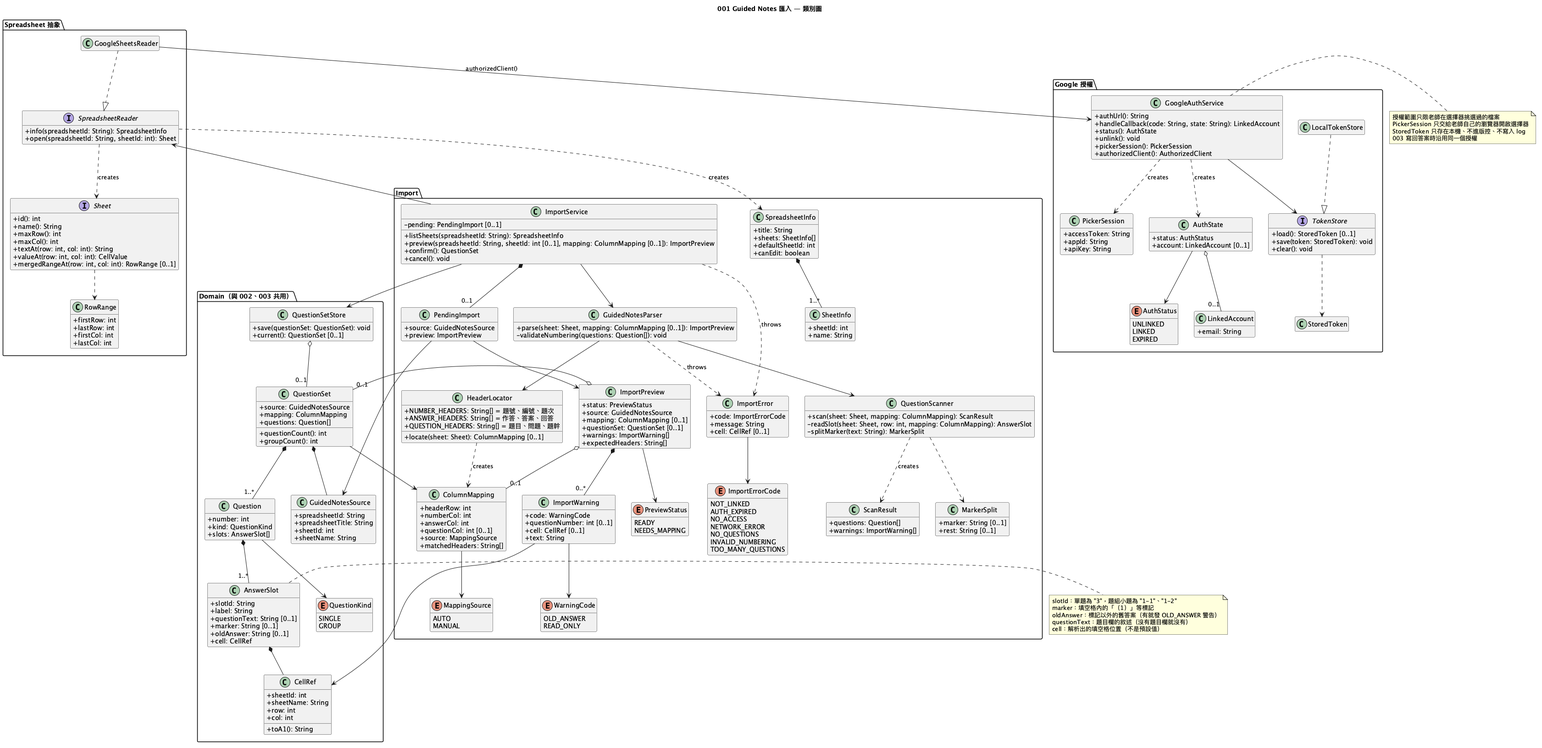
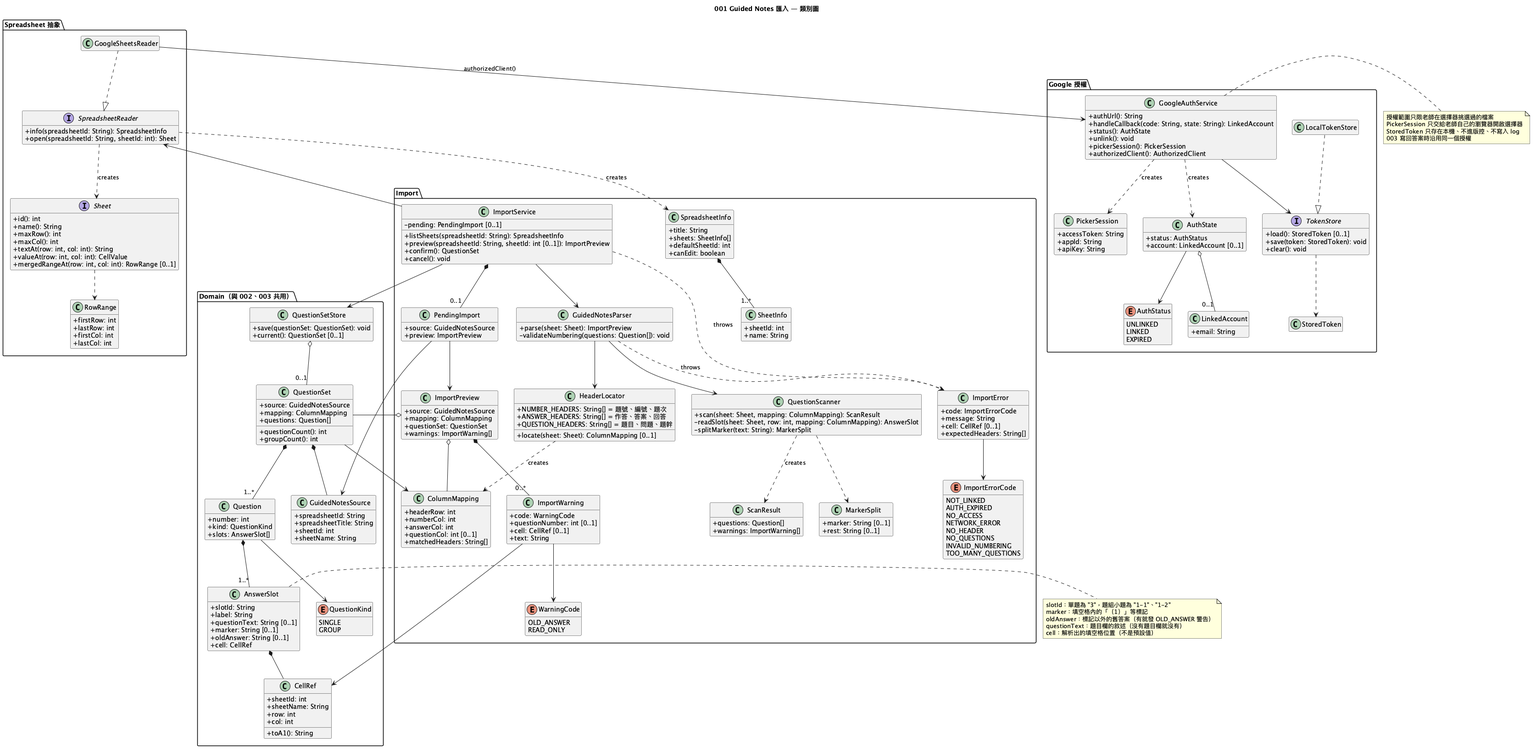
spec(001): 依 spec 修改同步 plan、圖表與 tasks
spec 拿掉手動指定欄位、並寫清楚只有老師身分能匯入之後，設計與任務也要跟著改，否則實作會照舊的流程做。移除 NEEDS_MAPPING、MappingSource、手動指定的畫面與任務，改為 NO_HEADER 附可用的表頭寫法；首頁與匯入 API 補上老師身分檢查；老師憑證配合 002 改存在分頁。重跑 analyze 沒有 CRITICAL、HIGH 或 MEDIUM。

Refs: REQ-IMP-05, REQ-IMP-15, AC-05, AC-15

diff --git a/specs/001-guided-notes-import/tasks.md b/specs/001-guided-notes-import/tasks.md
@@ -42,16 +42,16 @@ description: "Task list for 001 Guided Notes 匯入"
 
 **⚠ CRITICAL**: 這個 Phase 完成並合併前，不開始任何 User Story
 
-- [ ] T008 依 `contracts/question-set.md` 建立 `shared/src/guided-notes.ts`（`GuidedNotesSource`、`CellRef`、`ColumnMapping`、`AnswerSlot`、`Question`、`QuestionSet`、`QuestionKind`、`MappingSource`）
+- [ ] T008 依 `contracts/question-set.md` 建立 `shared/src/guided-notes.ts`（`GuidedNotesSource`、`CellRef`、`ColumnMapping`、`AnswerSlot`、`Question`、`QuestionSet`、`QuestionKind`）
 - [ ] T009 [P] 依 002 `data-model.md` 與 `contracts/socket-events.md` 建立 `shared/src/activity.ts`、`shared/src/socket-events.ts`；依 003 `data-model.md` 建立 `shared/src/results.ts`
 - [ ] T010 [P] 建立 `shared/fixtures/question-set-single.json`（單題範本 6 題）、`question-set-group.json`（題組範本 4 題、2 個題組）、`ended-activity-results.json`（一場已結束活動的 `QuestionResult[]`）；內容依 `docs/templates/` 兩份範本
 - [ ] T011 建立 `server/src/index.ts`：建立 Express 與 Socket.IO，掛上 `http/importRoutes.ts`、`http/googleRoutes.ts`、`http/sessionRoutes.ts`、`http/resultsRoutes.ts` 與 `session/SessionGateway.ts` 的空殼；正式環境提供 `web` 的建置檔
 - [ ] T012 [P] 建立 `server/src/http/errors.ts`：統一錯誤格式 `{ error: { code, message, cell?, questionNumber? } }` 與對應 HTTP 狀態碼
 - [ ] T013 [P] 建立交界的空實作：`server/src/store/QuestionSetStore.ts` 的 `current()` 先回傳 `shared/fixtures` 的範例；`server/src/results/ResultsService.ts` 的 `onActivityCreated`／`onQuestionClosed`／`onActivityEnded` 先不做事；`server/src/google/GoogleAuthService.ts` 先回傳 `UNAVAILABLE`
 - [ ] T014 [P] 建立 `server/src/http/requireTeacher.ts`：驗證 `Authorization: Bearer` 老師憑證的 middleware（憑證的發行由 002 tasks 的 T010 完成；骨架先接受測試用憑證）
-- [ ] T015 [P] 建立 `web/src/App.tsx` 路由，列出所有頁面的空元件：`pages/HomePage.tsx`、`pages/teacher/{ImportPage,SetupPage,LobbyPage,ConsolePage,ResultsPage}.tsx`、`pages/student/{JoinPage,AnswerPage,ResultsPage}.tsx`
-- [ ] T016 [P] 建立 `web/src/lib/api.ts`：`fetch` 包裝，自動帶 `localStorage` 中的老師憑證，把錯誤格式轉成可顯示的訊息
-- [ ] T017 [P] 依 `docs/design/` 的 `Main` 實作 `web/src/pages/HomePage.tsx`（選擇老師或學生）
+- [ ] T015 [P] 建立 `web/src/App.tsx` 路由，列出所有頁面的空元件：`pages/HomePage.tsx`、`pages/teacher/{ImportPage,SetupPage,LobbyPage,ConsolePage,ResultsPage,RecoverPage}.tsx`、`pages/student/{JoinPage,AnswerPage,ResultsPage}.tsx`
+- [ ] T016 [P] 建立 `web/src/lib/api.ts`：`fetch` 包裝，自動帶該分頁 `sessionStorage` 中的老師憑證（002 research R6），把錯誤格式轉成可顯示的訊息
+- [ ] T017 [P] 依 `docs/design/` 的 `Main` 實作 `web/src/pages/HomePage.tsx`（選擇老師或學生）：選老師時呼叫 002 的 `POST /api/teacher/session`，把老師憑證存在該分頁的 `sessionStorage`；已有老師時顯示 002 回傳的 `TEACHER_ACTIVE` 說明，只能以學生加入（002 AC-34）
 
 **Checkpoint**: 骨架合併後，A 與 B 依 `docs/work-split.md` 的檔案歸屬分頭開發
 
@@ -72,21 +72,21 @@ description: "Task list for 001 Guided Notes 匯入"
 - [ ] T022 [P] [US1] 建立 `server/tests/fixtures/sheets/single.json`、`group.json`（依 Sheets API v4 `spreadsheets.get` 回應格式，內容依兩份範本）與 3 份變形：`variant-shifted.json`（表頭在第 7 列、題號在 D 欄、作答在 I 欄）、`variant-gaps.json`（題與題之間空兩列、表頭上方多一段說明文字）、`variant-synonyms.json`（表頭為「編號／題幹／答案」、題目欄在作答欄右邊）（SC-002），並寫 `server/tests/unit/spreadsheet/GoogleSheet.test.ts`：`merges` 的 GridRange（0 起算、結尾不含）轉成 1 起算的 `RowRange`；`valueAt` 回傳 `effectiveValue` 的數字
 - [ ] T023 [P] [US1] `server/tests/unit/google/GoogleAuthService.test.ts`（負責：B）：`state` 一次性、10 分鐘過期、錯誤的 `state` 不保存任何東西（AC-06）；同意後存檔且檔案權限為 0600；`unlink()` 先撤銷再刪檔；`status()` 依情況回 `UNLINKED`／`LINKED`／`EXPIRED`；整個流程的 log 不含 token（SC-006）
 - [ ] T024 [P] [US1] `server/tests/integration/googleRoutes.test.ts`（負責：B）：缺少任一 Google 環境變數時 `/status` 回 `UNAVAILABLE`、`/picker-session` 回 `503 GOOGLE_UNAVAILABLE`；`/callback` 同意時 302 到 `/teacher/import?google=linked`，拒絕時到 `?google=denied`；沒有老師憑證回 401
-- [ ] T025 [P] [US1] `server/tests/integration/importRoutes.test.ts`：以假的 `SpreadsheetReader` 測 `/sheets`、`/preview`、`/confirm`、`/cancel`、`/current` 的成功流程；沒有老師憑證回 401；活動 phase 不是 `WAITING` 時一律 `409 IMPORT_LOCKED`（REQ-IMP-15）；多個工作表時 `defaultSheetId` 為第一個找得到表頭的工作表（AC-07）
-- [ ] T026 [P] [US1] `web/src/pages/teacher/ImportPage.test.tsx`：未連結時顯示「連結 Google 帳號」（AC-05）；`?google=denied` 時顯示尚未授權（AC-06）；已連結時顯示帳號 email 與「解除連結」
+- [ ] T025 [P] [US1] `server/tests/integration/importRoutes.test.ts`：以假的 `SpreadsheetReader` 測 `/sheets`、`/preview`、`/confirm`、`/cancel`、`/current` 的成功流程；沒有老師憑證或使用學生的身分回 401（REQ-IMP-15）；確認後 `/current` 回傳題目清單與來源（AC-02）；活動 phase 不是 `WAITING` 時一律 `409 IMPORT_LOCKED`（REQ-IMP-15）；多個工作表時 `defaultSheetId` 為第一個找得到表頭的工作表（AC-07）
+- [ ] T026 [P] [US1] `web/src/pages/teacher/ImportPage.test.tsx`：沒有老師身分的分頁進入匯入頁時導回首頁（REQ-IMP-15）；有老師身分但未連結 Google 時顯示「連結 Google 帳號」（AC-05）；`?google=denied` 時顯示尚未授權（AC-06）；已連結時顯示帳號 email 與「解除連結」
 
 ### Implementation for User Story 1
 
 - [ ] T027 [P] [US1] 建立 `server/src/spreadsheet/types.ts`：`SpreadsheetReader`（`info(spreadsheetId)`、`open(spreadsheetId, sheetId)`）、`Sheet`（`id`、`name`、`maxRow`、`maxCol`、`textAt`、`valueAt`、`mergedRangeAt`）、`RowRange`、`SpreadsheetInfo`（`title`、`sheets`、`defaultSheetId`、`canEdit`）、`SheetInfo`
-- [ ] T028 [P] [US1] 建立 `server/src/import/types.ts`：`ImportPreview`（`status: PreviewStatus`、`source`、`mapping`、`questionSet`、`warnings`、`expectedHeaders`）、`PendingImport`、`ImportWarning`（`code: 'OLD_ANSWER' | 'READ_ONLY'`）、`ImportError` 與 `ImportErrorCode`（`NOT_LINKED`、`AUTH_EXPIRED`、`NO_ACCESS`、`NETWORK_ERROR`、`NO_QUESTIONS`、`INVALID_NUMBERING`、`TOO_MANY_QUESTIONS`）
+- [ ] T028 [P] [US1] 建立 `server/src/import/types.ts`：`ImportPreview`（`source`、`mapping`、`questionSet`、`warnings`）、`PendingImport`、`ImportWarning`（`code: 'OLD_ANSWER' | 'READ_ONLY'`）、`ImportError`（`code`、`message`、`cell`、`expectedHeaders`）與 `ImportErrorCode`（`NOT_LINKED`、`AUTH_EXPIRED`、`NO_ACCESS`、`NETWORK_ERROR`、`NO_HEADER`、`NO_QUESTIONS`、`INVALID_NUMBERING`、`TOO_MANY_QUESTIONS`）
 - [ ] T029 [P] [US1] 實作 `server/src/import/HeaderLocator.ts`（research R5）
 - [ ] T030 [US1] 實作 `server/src/import/QuestionScanner.ts` 的單題路徑：逐列讀題號、作答欄、題目欄（research R6、R7），依 T027
-- [ ] T031 [US1] 實作 `server/src/import/GuidedNotesParser.ts`：`parse(sheet, mapping?)` 回傳 `ImportPreview`；`validateNumbering` 檢查不重複、由上到下嚴格遞增、可跳號、1–200 題（REQ-IMP-06），依 T029、T030
+- [ ] T031 [US1] 實作 `server/src/import/GuidedNotesParser.ts`：`parse(sheet)` 回傳 `ImportPreview`，找不到表頭時丟出 `NO_HEADER`；`validateNumbering` 檢查不重複、由上到下嚴格遞增、可跳號、1–200 題（REQ-IMP-06），依 T029、T030
 - [ ] T032 [US1] 實作 `server/src/spreadsheet/GoogleSheetsReader.ts`：`info` 用 `spreadsheets.get`（`fields=properties.title,sheets.properties(sheetId,title)`）與 Drive `files.get`（`capabilities/canEdit`）；`open` 用 `includeGridData` 並轉成 `GoogleSheet`；每次請求逾時 15 秒；錯誤對應 401→`AUTH_EXPIRED`、403／404→`NO_ACCESS`、逾時→`NETWORK_ERROR`（research R4）
 - [ ] T033 [P] [US1] 實作 `server/src/google/TokenStore.ts`（負責：B）：`TokenStore` 介面與 `LocalTokenStore`（`credentials/google-token.json`，權限 0600，`clear()` 刪檔）
 - [ ] T034 [US1] 實作 `server/src/google/GoogleAuthService.ts`（負責：B）：`OAuth2Client`，範圍只有 `drive.file` 與 `openid email`，`access_type=offline`、`prompt=consent`；`authUrl`、`handleCallback`（驗證一次性 `state`）、`status`、`unlink`（撤銷後刪檔）、`pickerSession`（`accessToken`、`appId`、`apiKey`）、`authorizedClient`（refresh 失敗時狀態變為 `EXPIRED`）；任何 token 不寫入 log（research R2、R3），依 T033
 - [ ] T035 [US1] 實作 `server/src/http/googleRoutes.ts`（負責：B）：`GET /status`、`POST /connect`、`GET /callback`、`POST /unlink`、`GET /picker-session`，依 `contracts/google-auth-http.md`，依 T034
-- [ ] T036 [US1] 實作 `server/src/import/ImportService.ts`：`listSheets(spreadsheetId)`、`preview(spreadsheetId, sheetId?, mapping?)`、`confirm()`、`cancel()`；同一時間最多一份 `PendingImport`；`confirm` 寫入 `QuestionSetStore`，依 T031、T032
+- [ ] T036 [US1] 實作 `server/src/import/ImportService.ts`：`listSheets(spreadsheetId)`、`preview(spreadsheetId, sheetId?)`、`confirm()`、`cancel()`；同一時間最多一份 `PendingImport`；`confirm` 寫入 `QuestionSetStore`，依 T031、T032
 - [ ] T037 [US1] 把 `server/src/store/QuestionSetStore.ts` 從範例資料換成真正的 `save(questionSet)`／`current()`（唯讀）
 - [ ] T038 [US1] 實作 `server/src/http/importRoutes.ts`：`POST /sheets`、`POST /preview`、`POST /confirm`、`POST /cancel`、`GET /current`，依 `contracts/import-http.md`，套用 `requireTeacher` 與 `IMPORT_LOCKED` 檢查，依 T036
 - [ ] T039 [P] [US1] 實作 `web/src/lib/googlePicker.ts`（負責：B）：載入 `https://apis.google.com/js/api.js`，以 `PickerBuilder` 開啟選擇器（`ViewId.SPREADSHEETS`、`setOAuthToken`、`setDeveloperKey`、`setAppId`），回傳 `spreadsheetId` 或 `cancel`
@@ -120,7 +120,7 @@ description: "Task list for 001 Guided Notes 匯入"
 
 ## Phase 5: User Story 3 - 連線、權限或格式有問題時清楚處理 (Priority: P2)
 
-**Goal**: 每一種失敗都有原因與修正方式；找不到表頭時手動指定欄位；失敗不影響既有題目清單
+**Goal**: 每一種失敗都有原因與修正方式；找不到表頭時拒絕匯入並列出可用的表頭寫法；失敗不影響既有題目清單
 
 **Independent Test**: 依 quickstart 情境 7–14，各種錯誤與警告都得到正確處理，既有題目清單不變
 
@@ -128,17 +128,17 @@ description: "Task list for 001 Guided Notes 匯入"
 
 - [ ] T047 [P] [US3] `server/tests/unit/import/QuestionScanner.warnings.test.ts`：填空格「（2）堆疊」產生 `OLD_ANSWER` 警告並附儲存格（AC-17）；只有空白或底線 `_`、`＿` 不算舊答案
 - [ ] T048 [P] [US3] `server/tests/unit/import/GuidedNotesParser.errors.test.ts`：題號重複或沒有遞增 → `INVALID_NUMBERING` 並附題號與列（AC-16）；題號 1、2、4 → 3 題（AC-20）；表頭以下沒有題號 → `NO_QUESTIONS`；201 題 → `TOO_MANY_QUESTIONS`；「編號／答案」自動辨識並回傳 `matchedHeaders`（AC-19）
-- [ ] T049 [P] [US3] `server/tests/unit/import/ManualMapping.test.ts`：找不到表頭 → `NEEDS_MAPPING` 並附 `expectedHeaders`（AC-15）；手動指定後以同一套規則解析；題號欄與作答欄相同或超出範圍 → `422 INVALID_MAPPING`
+- [ ] T049 [P] [US3] `server/tests/unit/import/NoHeader.test.ts`：表頭寫「No.／學生填寫」→ `NO_HEADER`，`expectedHeaders` 列出題號欄、作答欄、題目欄各接受的寫法，`message` 說明修正方式；`/preview` 回 `422`，既有題目清單不變（AC-15、REQ-IMP-05）
 - [ ] T050 [P] [US3] `server/tests/integration/importRoutes.errors.test.ts`：`canEdit=false` 時預覽附 `READ_ONLY` 警告但仍可確認（AC-13）；Reader 逾時 → `504 NETWORK_ERROR`（AC-14）；授權失效 → `401 AUTH_EXPIRED`；已確認一份題目後，新的預覽失敗或 `cancel` 時 `/current` 不變（AC-18）
 - [ ] T051 [P] [US3] `web/src/pages/teacher/ImportPage.errors.test.tsx`：關閉選擇器不改變頁面（AC-12）；`AUTH_EXPIRED` 時顯示重新連結；錯誤卡片顯示原因與修正方式
 
 ### Implementation for User Story 3
 
 - [ ] T052 [US3] 在 `server/src/import/QuestionScanner.ts` 實作舊答案判斷與 `OLD_ANSWER` 警告（research R6）
-- [ ] T053 [US3] 在 `server/src/import/ImportService.ts` 加入 `READ_ONLY` 警告（`SpreadsheetInfo.canEdit === false`）與手動欄位的驗證（`INVALID_MAPPING`）；`NEEDS_MAPPING` 時回傳前 30 列的 `grid` 預覽（`contracts/import-http.md`）
+- [ ] T053 [US3] 在 `server/src/import/ImportService.ts` 加入 `READ_ONLY` 警告（`SpreadsheetInfo.canEdit === false`），並在 `server/src/import/GuidedNotesParser.ts` 找不到表頭時丟出附 `expectedHeaders` 的 `NO_HEADER`（`contracts/import-http.md`）
 - [ ] T054 [US3] 在 `server/src/import/GuidedNotesParser.ts` 為每種 `ImportErrorCode` 撰寫中文訊息：說明原因、所在列與修正方式（原則 VII）
-- [ ] T055 [P] [US3] 建立 `web/src/components/ManualMappingPanel.tsx`（設計稿 T1-手動：點選表頭列、題號欄、題目欄、作答欄）、`web/src/components/WarningCard.tsx`、`web/src/components/ErrorCard.tsx`
-- [ ] T056 [US3] 在 `web/src/pages/teacher/ImportPage.tsx` 接上手動指定欄位、警告、錯誤與重新連結流程，依 T053、T055
+- [ ] T055 [P] [US3] 建立 `web/src/components/WarningCard.tsx` 與 `web/src/components/ErrorCard.tsx`（設計稿 T1-錯誤：列出可用的表頭寫法與修正方式）
+- [ ] T056 [US3] 在 `web/src/pages/teacher/ImportPage.tsx` 接上警告、錯誤（含 `NO_HEADER`）與重新連結流程，依 T053、T055
 
 **Checkpoint**: 001 全部 User Story 完成
 
@@ -194,7 +194,7 @@ A：T040 → T041（接上 B 的 T035、T039）
 
 1. US1 → 匯入單題
 2. US2 → 題組
-3. US3 → 錯誤、權限、手動指定欄位
+3. US3 → 錯誤、權限、找不到表頭
 4. Polish → README 設定步驟、機密掃描、人工驗證、圖表一致性驗證
 
 ## 需求追溯（REQ → Tasks）
@@ -205,7 +205,7 @@ A：T040 → T041（接上 B 的 T035、T039）
 | REQ-IMP-02 Google 授權、最小範圍、憑證不外洩 | T006、T023、T024、T033、T034、T035、T040、T057、T058 |
 | REQ-IMP-03 多個工作表與預設工作表 | T025、T032、T036、T041 |
 | REQ-IMP-04 執行期找表頭 | T019、T029 |
-| REQ-IMP-05 手動指定欄位 | T049、T053、T055、T056 |
+| REQ-IMP-05 找不到表頭時報錯 | T049、T053、T054、T055、T056 |
 | REQ-IMP-06 題號規則與題數 | T020、T021、T031、T048 |
 | REQ-IMP-07 題目敘述可有可無 | T020、T021、T030 |
 | REQ-IMP-08 題組 | T042、T044 |
@@ -215,4 +215,4 @@ A：T040 → T041（接上 B 的 T035、T039）
 | REQ-IMP-12 預覽內容 | T025、T040、T041、T046 |
 | REQ-IMP-13 保存題目清單與來源 | T025、T036、T037 |
 | REQ-IMP-14 失敗不影響既有清單 | T050 |
-| REQ-IMP-15 只有老師、搶答開始後鎖定 | T014、T025、T038 |
+| REQ-IMP-15 只有老師身分、搶答開始後鎖定 | T014、T017、T025、T026、T038 |

diff --git a/specs/001-guided-notes-import/contracts/import-http.md b/specs/001-guided-notes-import/contracts/import-http.md
@@ -2,7 +2,7 @@
 
 **Owner**: `001-guided-notes-import` | **Base**: `http://localhost:3000/api/import`
 
-所有請求都要帶老師憑證：`Authorization: Bearer <teacherToken>`（由 002 的老師工作階段 API 發出）。沒有或錯誤的憑證回 `401`。活動已經開始搶答時（phase 不是 `WAITING`），所有匯入請求回 `409 IMPORT_LOCKED`（REQ-IMP-15）。Google 授權相關的錯誤見 [google-auth-http.md](./google-auth-http.md)。
+所有請求都要帶老師憑證：`Authorization: Bearer <teacherToken>`（由 002 的老師工作階段 API 發出；這是本系統的老師身分，與 Google 帳號無關）。沒有或錯誤的憑證回 `401`。活動已經開始搶答時（phase 不是 `WAITING`），所有匯入請求回 `409 IMPORT_LOCKED`（REQ-IMP-15）。Google 授權相關的錯誤見 [google-auth-http.md](./google-auth-http.md)。
 
 請求與回應一律是 JSON；錯誤格式：
 
@@ -32,23 +32,19 @@
 { "spreadsheetId": "1AbC…", "sheetId": 0 }
 ```
 
-手動指定欄位時（REQ-IMP-05）另加：`"mapping": { "headerRow": 4, "numberCol": 2, "answerCol": 7, "questionCol": 3 }`
-
 **Response 200**
 
 ```json
 {
-  "status": "READY",
   "source": { "spreadsheetId": "1AbC…", "spreadsheetTitle": "計算機概論基礎 學習單", "sheetId": 0, "sheetName": "學習單" },
-  "mapping": { "headerRow": 4, "numberCol": 2, "answerCol": 7, "questionCol": 3, "source": "AUTO", "matchedHeaders": ["題號", "題目", "作答"] },
+  "mapping": { "headerRow": 4, "numberCol": 2, "answerCol": 7, "questionCol": 3, "matchedHeaders": ["題號", "題目", "作答"] },
   "summary": { "questionCount": 4, "groupCount": 2, "slotCount": 6 },
   "questions": [ { "number": 1, "kind": "GROUP", "slots": [ { "slotId": "1-1", "label": "（1）", "questionText": "根據文章第一段…", "marker": "（1）", "oldAnswer": null, "cell": { "sheetId": 0, "sheetName": "學習單", "row": 5, "col": 7 } } ] } ],
-  "warnings": [ { "code": "READ_ONLY", "questionNumber": null, "cell": null, "text": "目前連結的帳號只能檢視這份試算表，搶答結束後無法寫回答案。請先複製一份到自己的雲端硬碟再挑選。" } ],
-  "expectedHeaders": ["題號／編號／題次", "作答／答案／回答", "題目／問題／題幹（可省略）"]
+  "warnings": [ { "code": "READ_ONLY", "questionNumber": null, "cell": null, "text": "目前連結的帳號只能檢視這份試算表，搶答結束後無法寫回答案。請先複製一份到自己的雲端硬碟再挑選。" } ]
 }
 ```
 
-找不到表頭時：`status: "NEEDS_MAPPING"`、`mapping: null`、`questions: []`，另附 `grid`（該工作表前 30 列的文字預覽），讓前端畫出供老師點選的表格。
+找不到表頭時回 `422 NO_HEADER`，錯誤另附 `expectedHeaders`，例如 `["題號／編號／題次", "作答／答案／回答", "題目／問題／題幹（可省略）"]`，`message` 說明把表頭改成其中一種寫法後重新匯入（REQ-IMP-05）。
 
 **Errors**
 
@@ -58,7 +54,7 @@
 | 403 | `NO_ACCESS` | 無法讀取這份試算表 |
 | 504 | `NETWORK_ERROR` | 15 秒內連不上 Google，可重試 |
 | 422 | `NO_QUESTIONS` / `INVALID_NUMBERING` / `TOO_MANY_QUESTIONS` | 內容不符規則；附 `cell` |
-| 422 | `INVALID_MAPPING` | 手動指定的欄位重複或超出範圍 |
+| 422 | `NO_HEADER` | 找不到表頭列；附 `expectedHeaders`（AC-15） |
 
 `/sheets` 也可能回傳前四種錯誤。
 

diff --git a/specs/001-guided-notes-import/analyze-report.md b/specs/001-guided-notes-import/analyze-report.md
@@ -8,7 +8,7 @@
 |----|----------|----------|-------------|---------|----------------|
 | C1 | Underspecification | ~~MEDIUM~~ 已修正 | tasks.md T011–T017；plan.md Project Structure | 共用骨架的檔案（`server/src/index.ts`、`http/errors.ts`、`http/requireTeacher.ts`、`web/src/App.tsx`、`pages/HomePage.tsx`、`styles/tokens.css`、`shared/src/{index,activity,socket-events,results}.ts`）出現在 tasks，但沒有任何 plan 的結構或藍圖對照列出它們 | 在 plan.md 的 Project Structure 加一節「共用骨架」列出這些檔案與負責人 |
 | E1 | Coverage | ~~MEDIUM~~ 已修正 | spec.md SC-002；tasks.md T021 | SC-002 要求至少 3 份變形試算表不改程式就能匯入，tasks 只有 1 份變形（AC-03） | 在 T022 的 fixtures 加入 3 份變形（表頭與欄位位置不同、間隔列不同），T021 逐一驗證 |
-| C2 | Underspecification | LOW | tasks.md T040、T055；plan.md「components/（SheetPreview、WarningCard…）」 | `QuestionSummary`、`ManualMappingPanel`、`ErrorCard`、`GoogleAccountBadge` 沒有寫進 plan | 在 plan.md 的 components 列出完整清單 |
+| C2 | Underspecification | LOW | tasks.md T040、T055；plan.md「components/（SheetPreview、WarningCard…）」 | `QuestionSummary`、`ErrorCard`、`GoogleAccountBadge` 沒有寫進 plan | 在 plan.md 的 components 列出完整清單 |
 | E2 | Coverage | LOW | spec.md AC-02；tasks.md T025、T036 | AC-02（確認後保存題目清單與來源）由 T025、T036 涵蓋，但沒有明確引用 | 在 T025 的描述加上 AC-02 |
 | E3 | Coverage | LOW | spec.md SC-003、SC-005 | SC-003（錯誤訊息讓老師能自行修正）由 T054 涵蓋、SC-005（1 分鐘內完成）由 T060 涵蓋，但沒有明確引用 | 在 T054、T060 加上 SC 編號 |
 | U1 | Traceability | LOW | tasks.md 需求追溯表 | 測試任務 T026（AC-05、AC-06）、T043、T051 屬於 User Story，但沒有出現在追溯表 | 把 T026 加到 REQ-IMP-02，T043 加到 REQ-IMP-08，T051 加到 REQ-IMP-11 |
@@ -64,6 +64,15 @@
 - C1：plan.md 新增「共用骨架」一節，列出 Phase 1、2 建立的檔案與用途。
 - E1：T022 新增 3 份變形試算表 fixture，T021 逐一驗證（SC-002）。
 - 重跑檢查：需求涵蓋 100%；剩下 LOW 4 項（C2、E2、E3、U1），不影響進入實作。
+
+## 重跑結果（2026-11-19，依 PR #3 review 修改後）
+
+spec 依 review 修改（commit `spec(001): 依 review 拿掉手動指定欄位並釐清老師身分`）後，plan、research、data-model、contracts、quickstart、三張圖與 tasks 已同步更新：
+
+- REQ-IMP-05 改為「找不到表頭時拒絕匯入」：移除 `NEEDS_MAPPING`、`MappingSource`、`INVALID_MAPPING`、手動指定的畫面與任務；新增 `NO_HEADER`（附 `expectedHeaders`），對應 T049、T053–T056。
+- REQ-IMP-15、AC-05 補上老師身分：T017（首頁取得老師身分、處理 002 AC-34）、T025、T026（沒有老師身分時拒絕）。
+- 老師憑證改存分頁的 `sessionStorage`（002 research R6）：T016、T015（新增 RecoverPage 路由）。
+- 重跑檢查：15 條需求都有任務、61 個任務編號連續、spec 的每個 AC 都有任務引用、沒有殘留舊用語、類別圖與文件一致；沒有 CRITICAL、HIGH 或 MEDIUM。
 
 ## Next Actions
 

diff --git a/specs/001-guided-notes-import/data-model.md b/specs/001-guided-notes-import/data-model.md
@@ -63,8 +63,7 @@
 | `numberCol` | number | 題號欄 |
 | `answerCol` | number | 作答欄（合併範圍的最左欄） |
 | `questionCol` | number \| null | 題目欄，可以沒有 |
-| `source` | MappingSource（`'AUTO' \| 'MANUAL'`） | 自動辨識或老師手動指定 |
-| `matchedHeaders` | string[] | 自動辨識時找到的表頭文字；手動時為空陣列 |
+| `matchedHeaders` | string[] | 找到的表頭文字，例如 `["題號","題目","作答"]`，預覽時顯示給老師 |
 
 規則：`numberCol` 與 `answerCol` 不可相同；`questionCol` 不可等於前兩者。
 
@@ -104,12 +103,10 @@ LINKED | EXPIRED --unlink()--> UNLINKED（撤銷授權並刪除憑證檔）
 
 | 欄位 | 型別 | 規則 |
 | --- | --- | --- |
-| `status` | PreviewStatus（`'READY' \| 'NEEDS_MAPPING'`） | 找不到表頭時為 `NEEDS_MAPPING` |
 | `source` | GuidedNotesSource | 這次預覽的來源 |
-| `mapping` | ColumnMapping \| null | `READY` 時必有 |
-| `questionSet` | QuestionSet \| null | `READY` 時必有 |
+| `mapping` | ColumnMapping | |
+| `questionSet` | QuestionSet | |
 | `warnings` | ImportWarning[] | 不阻止匯入的提醒 |
-| `expectedHeaders` | string[] | 系統找的表頭文字（`NEEDS_MAPPING` 時給老師看） |
 
 ### PendingImport
 
@@ -132,22 +129,23 @@ LINKED | EXPIRED --unlink()--> UNLINKED（撤銷授權並刪除憑證檔）
 | `AUTH_EXPIRED` | 授權被撤銷或已失效 | Edge Cases |
 | `NO_ACCESS` | 無法讀取挑選的試算表 | REQ-IMP-11 |
 | `NETWORK_ERROR` | 15 秒內連不上 Google | AC-14 |
+| `NO_HEADER` | 選定的工作表找不到表頭列 | AC-15 |
 | `NO_QUESTIONS` | 表頭以下沒有任何正整數題號 | REQ-IMP-11 |
 | `INVALID_NUMBERING` | 題號重複或沒有遞增 | AC-16 |
 | `TOO_MANY_QUESTIONS` | 超過 200 題 | REQ-IMP-11 |
 
-`ImportError` 另有 `message`（給老師看的中文說明，含修正方式）與 `cell: CellRef | null`。找不到表頭不是錯誤，而是 `ImportPreview.status = 'NEEDS_MAPPING'`（AC-15）。
+`ImportError` 另有 `message`（給老師看的中文說明，含修正方式）、`cell: CellRef | null` 與 `expectedHeaders: string[]`（只有 `NO_HEADER` 時有值，列出各欄接受的表頭寫法）。
 
 ### 匯入狀態
 
 ```text
-（無） --preview()--> PendingImport(READY | NEEDS_MAPPING)
-PendingImport(NEEDS_MAPPING) --preview(mapping)--> PendingImport(READY)
-PendingImport(READY) --confirm()--> QuestionSetStore 更新，PendingImport 清除
+（無） --preview() 成功--> PendingImport
+（無） --preview() 失敗（含 NO_HEADER）--> 回傳 ImportError，不建立 PendingImport
+PendingImport --confirm()--> QuestionSetStore 更新，PendingImport 清除
 PendingImport(*) --cancel() 或錯誤--> PendingImport 清除，QuestionSetStore 不變（REQ-IMP-14）
 ```
 
-活動開始搶答後（002 的 phase 不是 `WAITING`），`listSheets`、`preview`、`confirm` 一律拒絕（REQ-IMP-15）。
+沒有老師身分（002 發出的老師憑證）時一律拒絕；活動開始搶答後（002 的 phase 不是 `WAITING`），`listSheets`、`preview`、`confirm` 一律拒絕（REQ-IMP-15）。
 
 ## Spreadsheet 抽象（packages/server/src/spreadsheet）
 

diff --git a/specs/001-guided-notes-import/quickstart.md b/specs/001-guided-notes-import/quickstart.md
@@ -9,7 +9,7 @@
 - 在專案根目錄的 `.env` 自行填入 [google-auth-http.md](./contracts/google-auth-http.md) 列出的四個變數（不要貼到任何文件或對話中）
 - 老師帳號的雲端硬碟中有：
   - 單題範本的副本（6 題）、題組範本的副本（4 題，其中 2 個題組）
-  - 變形試算表：表頭在第 7 列且題號在 D 欄、表頭寫「編號／答案」、表頭寫「No.／學生填寫」、G9 已填「（2）堆疊」、題號 1、2、4、題號重複
+  - 變形試算表：表頭在第 7 列且題號在 D 欄、表頭寫「編號／答案」、表頭寫「No.／學生填寫」（用來驗證找不到表頭的錯誤）、G9 已填「（2）堆疊」、題號 1、2、4、題號重複
   - 一份只有檢視權限的試算表（由另一個帳號共用過來）
 
 ## 自動化測試
@@ -32,7 +32,7 @@ npm test -w packages/server -- import google spreadsheet
 | 4 | 挑選題組範本 | 「共 4 題，其中 2 個題組」，第 1 題小題（1）（2） | AC-08、SC-001 |
 | 5 | 挑選表頭在第 7 列、題號在 D 欄的試算表 | 正確辨識，位置跟著改變 | AC-03、SC-002 |
 | 6 | 挑選表頭寫「編號／答案」的試算表 | 自動辨識，預覽顯示找到的表頭文字 | AC-19 |
-| 7 | 挑選表頭寫「No.／學生填寫」的試算表 | 出現手動指定欄位畫面；指定後正確辨識 | AC-15 |
+| 7 | 挑選表頭寫「No.／學生填寫」的試算表 | 拒絕匯入，列出題號欄、作答欄、題目欄各接受的寫法與修正方式；既有題目清單不變 | AC-15 |
 | 8 | 挑選 G9 已填「（2）堆疊」的試算表 | 預覽出現 G9 的舊答案警告，仍可確認匯入 | AC-17 |
 | 9 | 挑選題號 1、2、4 的試算表 | 「共 3 題」，列出 1、2、4 | AC-20 |
 | 10 | 挑選題號重複的試算表 | 錯誤訊息指出重複的題號與列 | AC-16 |

diff --git a/specs/001-guided-notes-import/research.md b/specs/001-guided-notes-import/research.md
@@ -46,7 +46,8 @@
 - **Decision**: `HeaderLocator` 逐列掃描，第一個同時含有「題號欄表頭」與「作答欄表頭」的列就是表頭列。比對方式：儲存格文字去除前後空白（含全形空白）後完全相等。
   - 題號欄：`題號`、`編號`、`題次`；作答欄：`作答`、`答案`、`回答`；題目欄（可以沒有）：`題目`、`問題`、`題幹`
   - 表頭儲存格是合併儲存格時，欄位取合併範圍的最左欄。
-- **Rationale**: 完全相等可以避免「學生作答」「答案說明」這類欄位被誤判；找不到時交給老師手動指定（REQ-IMP-05），不猜測（原則 IV）。
+- **Rationale**: 完全相等可以避免「學生作答」「答案說明」這類欄位被誤判；找不到時拒絕匯入並列出可用的表頭寫法（REQ-IMP-05），不猜測（原則 IV）。
+- **2026-11-19 review 決定**：拿掉手動指定欄位（作業沒有要求、要多一個畫面與流程）；保留同義詞（拿掉手動指定後，它是助教學習單表頭不同時唯一的備援，成本只是一張清單）。
 - **Alternatives considered**: 子字串比對（誤判風險高）；比對儲存格格式（助教的試算表格式不一定相同）。
 
 ## R6. 題組、小題標記與舊答案的判定

diff --git a/specs/001-guided-notes-import/contracts/question-set.md b/specs/001-guided-notes-import/contracts/question-set.md
@@ -6,7 +6,6 @@
 
 ```ts
 export type QuestionKind = 'SINGLE' | 'GROUP';
-export type MappingSource = 'AUTO' | 'MANUAL';
 
 export interface GuidedNotesSource {
   spreadsheetId: string;
@@ -27,7 +26,6 @@ export interface ColumnMapping {
   numberCol: number;
   answerCol: number;
   questionCol: number | null;
-  source: MappingSource;
   matchedHeaders: string[];
 }
 
